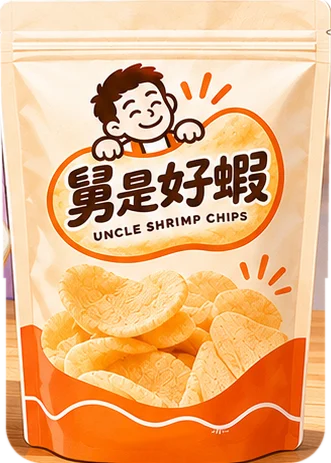
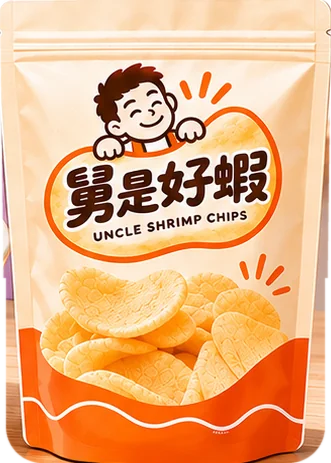
換新版主視覺、改寫品牌故事、新定價單包 $100／三入組 $260
- 主視覺與商品圖改用新版（三大賣點：精選印尼蝦餅原料／手工現炸／經典好味）
- 品牌故事改為舅舅在印尼工作多年、找到好吃的蝦餅與穩定原料來源
- 004 套用新定價並關閉全館折扣（特價與促銷功能保留，可在後台開啟）

Claude-Session: https://claude.ai/code/session_01D7H7hAX32bPMwR21E7MCwf

diff --git a/index.html b/index.html
@@ -10,7 +10,7 @@
 <script src="config.js?v=20261113b"></script>
 <title>舅是好蝦 Uncle’s Shrimp Chips</title>
 <meta name="claude:viewport-fit-sides" content="cover">
-<meta name="description" content="舅是好蝦：選用印尼進口蝦餅原料，在台灣小鍋手工現炸的香脆蝦餅。少量現炸、新鮮酥脆，線上訂購宅配到府。">
+<meta name="description" content="舅是好蝦：舅舅在印尼工作多年找到的好味道，精選印尼蝦餅原料，在台灣小鍋手工現炸。香脆可口，線上訂購宅配到府。">
 <link rel="preconnect" href="https://fonts.googleapis.com">
 <link rel="preconnect" href="https://fonts.gstatic.com" crossorigin>
 <link rel="stylesheet" href="https://fonts.googleapis.com/css2?family=Chiron+GoRound+TC:wght@500;700;900&family=LXGW+WenKai+TC:wght@700&family=Noto+Sans+TC:wght@400;500;700&display=swap">
@@ -321,9 +321,9 @@ footer .tbd{background:color-mix(in srgb,var(--cream) 18%,transparent);color:inh
   <section class="hero">
     <div class="wrap hero-grid">
       <div class="hero-copy">
-        <p class="hand">舅舅用心炸的香脆蝦餅！</p>
+        <p class="hand">舅舅手工現炸的香脆蝦餅！</p>
         <h1>一口咬下，<br><em>喀滋</em>現炸好酥脆</h1>
-        <p class="hero-lead">舅是好蝦選用印尼進口的蝦餅原料，由舅舅在台灣小鍋少量手工油炸，每批現炸現包。沒有花俏的包裝話術，就是剛起鍋的那份香脆。</p>
+        <p class="hero-lead">舅舅在印尼工作多年，吃遍當地蝦餅，找到最對味的那一款。現在把精選的印尼蝦餅原料帶回台灣，小鍋少量手工油炸、每批現炸現包，就是剛起鍋的那份香脆。</p>
         <div class="hero-cta">
           <a class="btn btn-primary" href="#products">立即選購</a>
           <a class="btn btn-ghost" href="#story">認識舅舅</a>
@@ -342,9 +342,9 @@ footer .tbd{background:color-mix(in srgb,var(--cream) 18%,transparent);color:inh
   <section class="points" aria-label="三大堅持">
     <div class="wrap">
       <ul>
-        <li><span class="ico"><svg viewBox="0 0 48 48" fill="none" stroke="currentColor" stroke-width="3" stroke-linecap="round" stroke-linejoin="round" aria-hidden="true"><path d="M34 12c-9-4-21 1-23 12-1 6 3 12 9 13"/><path d="M34 12c4 3 6 8 4 13-2 6-9 9-15 8"/><path d="M20 37c-2 3-6 4-9 3 2-2 3-4 3-6"/><path d="M17 22c3 1 5 3 6 6M23 17c3 2 5 4 6 8"/><path d="M34 12l7-5M36 15l8-2"/><circle cx="31" cy="16" r="1.2" fill="currentColor"/></svg></span><div><h3>原料透明</h3><p>印尼進口蝦餅原料，來源清楚標示</p></div></li>
-        <li><span class="ico"><svg viewBox="0 0 48 48" fill="none" stroke="currentColor" stroke-width="3" stroke-linecap="round" stroke-linejoin="round" aria-hidden="true"><path d="M14 28c-5 0-8-4-7-8s5-6 9-5c1-5 5-8 9-8s8 3 9 8c4-1 8 1 9 5s-2 8-7 8"/><path d="M14 28v10h20V28"/><path d="M19 22c1 2 3 3 5 3s4-1 5-3"/></svg></span><div><h3>乾淨製作</h3><p>衛生安心，每一鍋都講究</p></div></li>
-        <li><span class="ico"><svg viewBox="0 0 48 48" fill="none" stroke="currentColor" stroke-width="3" stroke-linecap="round" stroke-linejoin="round" aria-hidden="true"><path d="M24 39S8 29.5 8 18.5C8 13 12 9 17 9c3 0 5.5 1.6 7 4 1.5-2.4 4-4 7-4 5 0 9 4 9 9.5C40 29.5 24 39 24 39Z"/></svg></span><div><h3>小鍋現炸</h3><p>手工少量油炸，新鮮酥脆</p></div></li>
+        <li><span class="ico"><svg viewBox="0 0 48 48" fill="none" stroke="currentColor" stroke-width="3" stroke-linecap="round" stroke-linejoin="round" aria-hidden="true"><path d="M34 12c-9-4-21 1-23 12-1 6 3 12 9 13"/><path d="M34 12c4 3 6 8 4 13-2 6-9 9-15 8"/><path d="M20 37c-2 3-6 4-9 3 2-2 3-4 3-6"/><path d="M17 22c3 1 5 3 6 6M23 17c3 2 5 4 6 8"/><path d="M34 12l7-5M36 15l8-2"/><circle cx="31" cy="16" r="1.2" fill="currentColor"/></svg></span><div><h3>精選印尼蝦餅原料</h3><p>舅舅在當地親自挑選、穩定採購</p></div></li>
+        <li><span class="ico"><svg viewBox="0 0 48 48" fill="none" stroke="currentColor" stroke-width="3" stroke-linecap="round" stroke-linejoin="round" aria-hidden="true"><path d="M14 28c-5 0-8-4-7-8s5-6 9-5c1-5 5-8 9-8s8 3 9 8c4-1 8 1 9 5s-2 8-7 8"/><path d="M14 28v10h20V28"/><path d="M19 22c1 2 3 3 5 3s4-1 5-3"/></svg></span><div><h3>手工現炸</h3><p>小鍋少量油炸，香脆可口</p></div></li>
+        <li><span class="ico"><svg viewBox="0 0 48 48" fill="none" stroke="currentColor" stroke-width="3" stroke-linecap="round" stroke-linejoin="round" aria-hidden="true"><path d="M24 39S8 29.5 8 18.5C8 13 12 9 17 9c3 0 5.5 1.6 7 4 1.5-2.4 4-4 7-4 5 0 9 4 9 9.5C40 29.5 24 39 24 39Z"/></svg></span><div><h3>經典好味</h3><p>大人小孩都愛，全家一起分享</p></div></li>
       </ul>
     </div>
   </section>
@@ -369,11 +369,11 @@ footer .tbd{background:color-mix(in srgb,var(--cream) 18%,transparent);color:inh
       </div>
       <div class="story-text">
         <p class="eyebrow">Our Story</p>
-        <h2>從家裡廚房炸出來的好味道</h2>
-        <p>每逢過年過節，舅舅總會在廚房炸上一大盆蝦餅。油鍋一響，孩子們就圍過來等著搶第一片。那種剛起鍋、熱熱香香的酥脆，是家裡每個人共同的回憶。</p>
-        <p>後來親朋好友吃過都說：「這個應該拿出去賣！」於是有了舅是好蝦。我們選用印尼進口的蝦餅原料，在台灣一批一批小鍋手工油炸，看著油溫、瀝油放涼後就封袋，只希望你吃到的，和我們家餐桌上剛起鍋的一樣酥脆。</p>
+        <h2>從印尼帶回來的好味道</h2>
+        <p>舅舅以前長期在印尼工作。蝦餅（kerupuk udang）是當地餐桌上少不了的配角，市場、小吃攤、家家戶戶都吃得到。這些年吃過一家又一家，舅舅慢慢摸出了門道：哪種原料炸起來最膨、最香、最酥脆。</p>
+        <p>回台灣後，舅舅最想念的就是那一味。於是透過在印尼累積的人脈，找到品質穩定的蝦餅原料來源，帶回來在自家廚房手工現炸，分給家人朋友。油鍋一響，孩子們就圍過來搶第一片；親友吃過都說：「這個應該拿出去賣！」於是有了舅是好蝦。現在我們一樣一批一批小鍋油炸、瀝油放涼後就封袋，讓你也吃到剛起鍋的酥脆。</p>
         <blockquote class="hand">做給外面的人吃，就跟做給自己家孩子吃一樣。<cite>舅是好蝦 舅舅</cite></blockquote>
-        <p><span class="tbd">⚑ 故事文案為草稿，請提供真實品牌故事</span></p>
+        <p><span class="tbd">⚑ 可再補充細節，例如在印尼哪個城市、待了幾年</span></p>
       </div>
     </div>
   </section>
@@ -383,10 +383,10 @@ footer .tbd{background:color-mix(in srgb,var(--cream) 18%,transparent);color:inh
       <div class="sec-head">
         <p class="eyebrow">Handmade Process</p>
         <h2>一片蝦餅的手工旅程</h2>
-        <p>從原料下鍋到封袋，每一鍋都由舅舅親手把關。<span class="tbd">⚑ 製程步驟待確認</span></p>
+        <p>從挑選印尼原料到下鍋、封袋，每一步都由舅舅親手把關。<span class="tbd">⚑ 製程步驟待確認</span></p>
       </div>
       <ol class="steps">
-        <li><h3>選用原料</h3><p>使用印尼進口的蝦餅生片，每批確認來源、效期與保存狀態。</p></li>
+        <li><h3>精選原料</h3><p>向舅舅在印尼長期合作的來源穩定採購蝦餅生片，每批確認效期與保存狀態。</p></li>
         <li><h3>控溫油炸</h3><p>小鍋少量下鍋、控制油溫，讓每片均勻膨脹、香脆不油膩。</p></li>
         <li><h3>瀝油挑片</h3><p>起鍋後充分瀝油，挑掉沒炸開或顏色不均的蝦餅。</p></li>
         <li><h3>放涼封袋</h3><p>完全放涼後當批封袋，鎖住剛起鍋的酥脆。</p></li>
@@ -404,7 +404,7 @@ footer .tbd{background:color-mix(in srgb,var(--cream) 18%,transparent);color:inh
       </div>
       <div class="faq-grid">
         <details open><summary>多久會出貨？</summary><p>蝦餅為小鍋手工現炸，完成訂購並確認付款後，約 3 至 5 個工作天出貨。節慶檔期訂單較多，出貨時間可能延長。</p></details>
-        <details><summary>原料是哪裡來的？</summary><p>蝦餅原料（生蝦餅片）為印尼進口，在台灣由我們手工油炸、包裝。包裝上會依食品標示規定標示產地資訊。</p></details>
+        <details><summary>原料是哪裡來的？</summary><p>蝦餅原料（生蝦餅片）是舅舅在印尼工作時找到的穩定來源，進口後在台灣由我們手工油炸、包裝。包裝上會依食品標示規定標示產地資訊。</p></details>
         <details><summary>運費怎麼算？</summary><p>宅配 NT$150、超商取貨 NT$70，單筆訂單滿 NT$1,200 免運費。也可預約到店自取，不收運費。</p></details>
         <details><summary>可以放多久？怎麼保存？</summary><p>未開封常溫保存約 3 個月，請放在陰涼乾燥處、避免陽光直射。開封後請盡快食用完畢，或用夾子密封保持酥脆。</p></details>
         <details><summary>有哪些過敏原？</summary><p>本產品含有蝦（甲殼類），並在處理其他海鮮的環境製作，對甲殼類或海鮮過敏者請勿食用。</p></details>
@@ -489,8 +489,8 @@ footer .tbd{background:color-mix(in srgb,var(--cream) 18%,transparent);color:inh
   const IMG={bag:"assets/bag.webp",bowl:"assets/bowl.webp",logo:"assets/logo.webp"};
   // 商品資料：之後只要改這裡就能更新品項與價格（皆為示意，待確認）
   const PRODUCTS=[
-    {id:"original",name:"原味手工蝦餅",spec:"單包 100g",price:180,tag:"招牌",img:"bag",desc:"經典原味蝦餅，小鍋現炸、酥脆不油膩，配茶、配啤酒都對味。"},
-    {id:"trio",name:"原味三入組",spec:"100g × 3 包",price:499,sale_price:300,tag:"人氣",img:"trio",desc:"自己吃、分朋友都方便，比單買更划算。"}
+    {id:"original",name:"原味手工蝦餅",spec:"單包 100g",price:100,tag:"招牌",img:"bag",desc:"經典原味蝦餅，小鍋現炸、酥脆不油膩，配茶、配啤酒都對味。"},
+    {id:"trio",name:"原味三入組",spec:"100g × 3 包",price:260,tag:"人氣",img:"trio",desc:"自己吃、分朋友都方便，比單買更划算。"}
   ];
   const SHIP=[
     {id:"home",name:"宅配到府",note:"黑貓或郵局宅配，約 3–5 個工作天出貨",fee:150},

diff --git a/src/template.html b/src/template.html
@@ -1,6 +1,6 @@
 <title>舅是好蝦 Uncle’s Shrimp Chips</title>
 <meta name="claude:viewport-fit-sides" content="cover">
-<meta name="description" content="舅是好蝦：選用印尼進口蝦餅原料，在台灣小鍋手工現炸的香脆蝦餅。少量現炸、新鮮酥脆，線上訂購宅配到府。">
+<meta name="description" content="舅是好蝦：舅舅在印尼工作多年找到的好味道，精選印尼蝦餅原料，在台灣小鍋手工現炸。香脆可口，線上訂購宅配到府。">
 <link rel="preconnect" href="https://fonts.googleapis.com">
 <link rel="preconnect" href="https://fonts.gstatic.com" crossorigin>
 <link rel="stylesheet" href="https://fonts.googleapis.com/css2?family=Chiron+GoRound+TC:wght@500;700;900&family=LXGW+WenKai+TC:wght@700&family=Noto+Sans+TC:wght@400;500;700&display=swap">
@@ -307,9 +307,9 @@ footer .tbd{background:color-mix(in srgb,var(--cream) 18%,transparent);color:inh
   <section class="hero">
     <div class="wrap hero-grid">
       <div class="hero-copy">
-        <p class="hand">舅舅用心炸的香脆蝦餅！</p>
+        <p class="hand">舅舅手工現炸的香脆蝦餅！</p>
         <h1>一口咬下，<br><em>喀滋</em>現炸好酥脆</h1>
-        <p class="hero-lead">舅是好蝦選用印尼進口的蝦餅原料，由舅舅在台灣小鍋少量手工油炸，每批現炸現包。沒有花俏的包裝話術，就是剛起鍋的那份香脆。</p>
+        <p class="hero-lead">舅舅在印尼工作多年，吃遍當地蝦餅，找到最對味的那一款。現在把精選的印尼蝦餅原料帶回台灣，小鍋少量手工油炸、每批現炸現包，就是剛起鍋的那份香脆。</p>
         <div class="hero-cta">
           <a class="btn btn-primary" href="#products">立即選購</a>
           <a class="btn btn-ghost" href="#story">認識舅舅</a>
@@ -328,9 +328,9 @@ footer .tbd{background:color-mix(in srgb,var(--cream) 18%,transparent);color:inh
   <section class="points" aria-label="三大堅持">
     <div class="wrap">
       <ul>
-        <li><span class="ico"><svg viewBox="0 0 48 48" fill="none" stroke="currentColor" stroke-width="3" stroke-linecap="round" stroke-linejoin="round" aria-hidden="true"><path d="M34 12c-9-4-21 1-23 12-1 6 3 12 9 13"/><path d="M34 12c4 3 6 8 4 13-2 6-9 9-15 8"/><path d="M20 37c-2 3-6 4-9 3 2-2 3-4 3-6"/><path d="M17 22c3 1 5 3 6 6M23 17c3 2 5 4 6 8"/><path d="M34 12l7-5M36 15l8-2"/><circle cx="31" cy="16" r="1.2" fill="currentColor"/></svg></span><div><h3>原料透明</h3><p>印尼進口蝦餅原料，來源清楚標示</p></div></li>
-        <li><span class="ico"><svg viewBox="0 0 48 48" fill="none" stroke="currentColor" stroke-width="3" stroke-linecap="round" stroke-linejoin="round" aria-hidden="true"><path d="M14 28c-5 0-8-4-7-8s5-6 9-5c1-5 5-8 9-8s8 3 9 8c4-1 8 1 9 5s-2 8-7 8"/><path d="M14 28v10h20V28"/><path d="M19 22c1 2 3 3 5 3s4-1 5-3"/></svg></span><div><h3>乾淨製作</h3><p>衛生安心，每一鍋都講究</p></div></li>
-        <li><span class="ico"><svg viewBox="0 0 48 48" fill="none" stroke="currentColor" stroke-width="3" stroke-linecap="round" stroke-linejoin="round" aria-hidden="true"><path d="M24 39S8 29.5 8 18.5C8 13 12 9 17 9c3 0 5.5 1.6 7 4 1.5-2.4 4-4 7-4 5 0 9 4 9 9.5C40 29.5 24 39 24 39Z"/></svg></span><div><h3>小鍋現炸</h3><p>手工少量油炸，新鮮酥脆</p></div></li>
+        <li><span class="ico"><svg viewBox="0 0 48 48" fill="none" stroke="currentColor" stroke-width="3" stroke-linecap="round" stroke-linejoin="round" aria-hidden="true"><path d="M34 12c-9-4-21 1-23 12-1 6 3 12 9 13"/><path d="M34 12c4 3 6 8 4 13-2 6-9 9-15 8"/><path d="M20 37c-2 3-6 4-9 3 2-2 3-4 3-6"/><path d="M17 22c3 1 5 3 6 6M23 17c3 2 5 4 6 8"/><path d="M34 12l7-5M36 15l8-2"/><circle cx="31" cy="16" r="1.2" fill="currentColor"/></svg></span><div><h3>精選印尼蝦餅原料</h3><p>舅舅在當地親自挑選、穩定採購</p></div></li>
+        <li><span class="ico"><svg viewBox="0 0 48 48" fill="none" stroke="currentColor" stroke-width="3" stroke-linecap="round" stroke-linejoin="round" aria-hidden="true"><path d="M14 28c-5 0-8-4-7-8s5-6 9-5c1-5 5-8 9-8s8 3 9 8c4-1 8 1 9 5s-2 8-7 8"/><path d="M14 28v10h20V28"/><path d="M19 22c1 2 3 3 5 3s4-1 5-3"/></svg></span><div><h3>手工現炸</h3><p>小鍋少量油炸，香脆可口</p></div></li>
+        <li><span class="ico"><svg viewBox="0 0 48 48" fill="none" stroke="currentColor" stroke-width="3" stroke-linecap="round" stroke-linejoin="round" aria-hidden="true"><path d="M24 39S8 29.5 8 18.5C8 13 12 9 17 9c3 0 5.5 1.6 7 4 1.5-2.4 4-4 7-4 5 0 9 4 9 9.5C40 29.5 24 39 24 39Z"/></svg></span><div><h3>經典好味</h3><p>大人小孩都愛，全家一起分享</p></div></li>
       </ul>
     </div>
   </section>
@@ -355,11 +355,11 @@ footer .tbd{background:color-mix(in srgb,var(--cream) 18%,transparent);color:inh
       </div>
       <div class="story-text">
         <p class="eyebrow">Our Story</p>
-        <h2>從家裡廚房炸出來的好味道</h2>
-        <p>每逢過年過節，舅舅總會在廚房炸上一大盆蝦餅。油鍋一響，孩子們就圍過來等著搶第一片。那種剛起鍋、熱熱香香的酥脆，是家裡每個人共同的回憶。</p>
-        <p>後來親朋好友吃過都說：「這個應該拿出去賣！」於是有了舅是好蝦。我們選用印尼進口的蝦餅原料，在台灣一批一批小鍋手工油炸，看著油溫、瀝油放涼後就封袋，只希望你吃到的，和我們家餐桌上剛起鍋的一樣酥脆。</p>
+        <h2>從印尼帶回來的好味道</h2>
+        <p>舅舅以前長期在印尼工作。蝦餅（kerupuk udang）是當地餐桌上少不了的配角，市場、小吃攤、家家戶戶都吃得到。這些年吃過一家又一家，舅舅慢慢摸出了門道：哪種原料炸起來最膨、最香、最酥脆。</p>
+        <p>回台灣後，舅舅最想念的就是那一味。於是透過在印尼累積的人脈，找到品質穩定的蝦餅原料來源，帶回來在自家廚房手工現炸，分給家人朋友。油鍋一響，孩子們就圍過來搶第一片；親友吃過都說：「這個應該拿出去賣！」於是有了舅是好蝦。現在我們一樣一批一批小鍋油炸、瀝油放涼後就封袋，讓你也吃到剛起鍋的酥脆。</p>
         <blockquote class="hand">做給外面的人吃，就跟做給自己家孩子吃一樣。<cite>舅是好蝦 舅舅</cite></blockquote>
-        <p><span class="tbd">⚑ 故事文案為草稿，請提供真實品牌故事</span></p>
+        <p><span class="tbd">⚑ 可再補充細節，例如在印尼哪個城市、待了幾年</span></p>
       </div>
     </div>
   </section>
@@ -369,10 +369,10 @@ footer .tbd{background:color-mix(in srgb,var(--cream) 18%,transparent);color:inh
       <div class="sec-head">
         <p class="eyebrow">Handmade Process</p>
         <h2>一片蝦餅的手工旅程</h2>
-        <p>從原料下鍋到封袋，每一鍋都由舅舅親手把關。<span class="tbd">⚑ 製程步驟待確認</span></p>
+        <p>從挑選印尼原料到下鍋、封袋，每一步都由舅舅親手把關。<span class="tbd">⚑ 製程步驟待確認</span></p>
       </div>
       <ol class="steps">
-        <li><h3>選用原料</h3><p>使用印尼進口的蝦餅生片，每批確認來源、效期與保存狀態。</p></li>
+        <li><h3>精選原料</h3><p>向舅舅在印尼長期合作的來源穩定採購蝦餅生片，每批確認效期與保存狀態。</p></li>
         <li><h3>控溫油炸</h3><p>小鍋少量下鍋、控制油溫，讓每片均勻膨脹、香脆不油膩。</p></li>
         <li><h3>瀝油挑片</h3><p>起鍋後充分瀝油，挑掉沒炸開或顏色不均的蝦餅。</p></li>
         <li><h3>放涼封袋</h3><p>完全放涼後當批封袋，鎖住剛起鍋的酥脆。</p></li>
@@ -390,7 +390,7 @@ footer .tbd{background:color-mix(in srgb,var(--cream) 18%,transparent);color:inh
       </div>
       <div class="faq-grid">
         <details open><summary>多久會出貨？</summary><p>蝦餅為小鍋手工現炸，完成訂購並確認付款後，約 3 至 5 個工作天出貨。節慶檔期訂單較多，出貨時間可能延長。</p></details>
-        <details><summary>原料是哪裡來的？</summary><p>蝦餅原料（生蝦餅片）為印尼進口，在台灣由我們手工油炸、包裝。包裝上會依食品標示規定標示產地資訊。</p></details>
+        <details><summary>原料是哪裡來的？</summary><p>蝦餅原料（生蝦餅片）是舅舅在印尼工作時找到的穩定來源，進口後在台灣由我們手工油炸、包裝。包裝上會依食品標示規定標示產地資訊。</p></details>
         <details><summary>運費怎麼算？</summary><p>宅配 NT$150、超商取貨 NT$70，單筆訂單滿 NT$1,200 免運費。也可預約到店自取，不收運費。</p></details>
         <details><summary>可以放多久？怎麼保存？</summary><p>未開封常溫保存約 3 個月，請放在陰涼乾燥處、避免陽光直射。開封後請盡快食用完畢，或用夾子密封保持酥脆。</p></details>
         <details><summary>有哪些過敏原？</summary><p>本產品含有蝦（甲殼類），並在處理其他海鮮的環境製作，對甲殼類或海鮮過敏者請勿食用。</p></details>
@@ -475,8 +475,8 @@ footer .tbd{background:color-mix(in srgb,var(--cream) 18%,transparent);color:inh
   const IMG={bag:"{{BAG}}",bowl:"{{BOWL}}",logo:"{{LOGO}}"};
   // 商品資料：之後只要改這裡就能更新品項與價格（皆為示意，待確認）
   const PRODUCTS=[
-    {id:"original",name:"原味手工蝦餅",spec:"單包 100g",price:180,tag:"招牌",img:"bag",desc:"經典原味蝦餅，小鍋現炸、酥脆不油膩，配茶、配啤酒都對味。"},
-    {id:"trio",name:"原味三入組",spec:"100g × 3 包",price:499,sale_price:300,tag:"人氣",img:"trio",desc:"自己吃、分朋友都方便，比單買更划算。"}
+    {id:"original",name:"原味手工蝦餅",spec:"單包 100g",price:100,tag:"招牌",img:"bag",desc:"經典原味蝦餅，小鍋現炸、酥脆不油膩，配茶、配啤酒都對味。"},
+    {id:"trio",name:"原味三入組",spec:"100g × 3 包",price:260,tag:"人氣",img:"trio",desc:"自己吃、分朋友都方便，比單買更划算。"}
   ];
   const SHIP=[
     {id:"home",name:"宅配到府",note:"黑貓或郵局宅配，約 3–5 個工作天出貨",fee:150},

diff --git a/admin/admin.js b/admin/admin.js
@@ -106,12 +106,12 @@
       saveProduct: (p) => { const i = demoProducts.findIndex((x) => x.id === p.id); const row = { ...p, price: Number(p.price), sale_price: p.sale_price === "" || p.sale_price == null ? null : Number(p.sale_price) }; if (row.sale_price != null && row.sale_price >= row.price) return Promise.reject(new Error("invalid_sale")); if (i >= 0) demoProducts[i] = row; else demoProducts.push(row); log.unshift({ at: new Date().toISOString(), actor_email: "owner@example.com", action: i >= 0 ? "update_product" : "create_product", detail: { product: p.id, name: p.name, price_to: p.price } }); return wait(row); },
       uploadImage: (blob) => wait(URL.createObjectURL(blob))
     };
-    var demoPromo = { enabled: true, name: "新開張試行 全館 7 折", pay_percent: 70, start_at: null, end_at: new Date(Date.now() + 17 * 864e5).toISOString(), free_shipping_threshold: 1200 };
+    var demoPromo = { enabled: false, name: "新開張試行 全館 7 折", pay_percent: 70, start_at: null, end_at: new Date(Date.now() + 17 * 864e5).toISOString(), free_shipping_threshold: 1200 };
     var demoLive = () => { const n = Date.now(); const on = demoPromo.enabled && demoPromo.pay_percent < 100 && (!demoPromo.start_at || n >= Date.parse(demoPromo.start_at)) && (!demoPromo.end_at || n < Date.parse(demoPromo.end_at)); return on ? { active: true, name: demoPromo.name, pay_percent: demoPromo.pay_percent, end_at: demoPromo.end_at } : { active: false }; };
     var demoProducts = [
-      { id: "original", name: "原味手工蝦餅", spec: "單包 100g", price: 180, active: true, sort: 1, tag: "招牌", description: "經典原味蝦餅，小鍋現炸、酥脆不油膩。", image_url: "../assets/bag.webp" },
+      { id: "original", name: "原味手工蝦餅", spec: "單包 100g", price: 100, active: true, sort: 1, tag: "招牌", description: "經典原味蝦餅，小鍋現炸、酥脆不油膩。", image_url: "../assets/bag.webp" },
       { id: "family", name: "家庭分享包", spec: "大包 250g", price: 399, active: false, sort: 2, tag: "", description: "一家人一起吃剛剛好。", image_url: "../assets/bowl.webp" },
-      { id: "trio", name: "原味三入組", spec: "100g × 3 包", price: 499, sale_price: 300, active: true, sort: 3, tag: "人氣", description: "比單買更划算。", image_url: null },
+      { id: "trio", name: "原味三入組", spec: "100g × 3 包", price: 260, active: true, sort: 3, tag: "人氣", description: "比單買更划算。", image_url: null },
       { id: "gift", name: "好蝦送禮盒", spec: "100g × 6 包・附提袋", price: 990, active: false, sort: 4, tag: "送禮", description: "伴手禮首選。", image_url: null }
     ];
   }

diff --git a/README.md b/README.md
@@ -98,7 +98,7 @@
 - 每次修改都會記在「操作紀錄」。
 
 ## 單品特價
-- 需先在 Supabase SQL Editor 執行 `supabase/004_sale_price.sql`（同時把三入組設成特價 $300、家庭分享包下架）。
+- 需先在 Supabase SQL Editor 執行 `supabase/004_sale_price.sql`（同時套用新定價：單包 $100、三入組 $260，關閉全館折扣，家庭分享包下架）。
 - 後台 → 商品 → 點商品 → 「特價」欄填金額（要低於原價），留空＝不特價。
 - 有特價的商品以特價計算，**不再疊加全館折扣**；其他商品照全館折扣。
 
